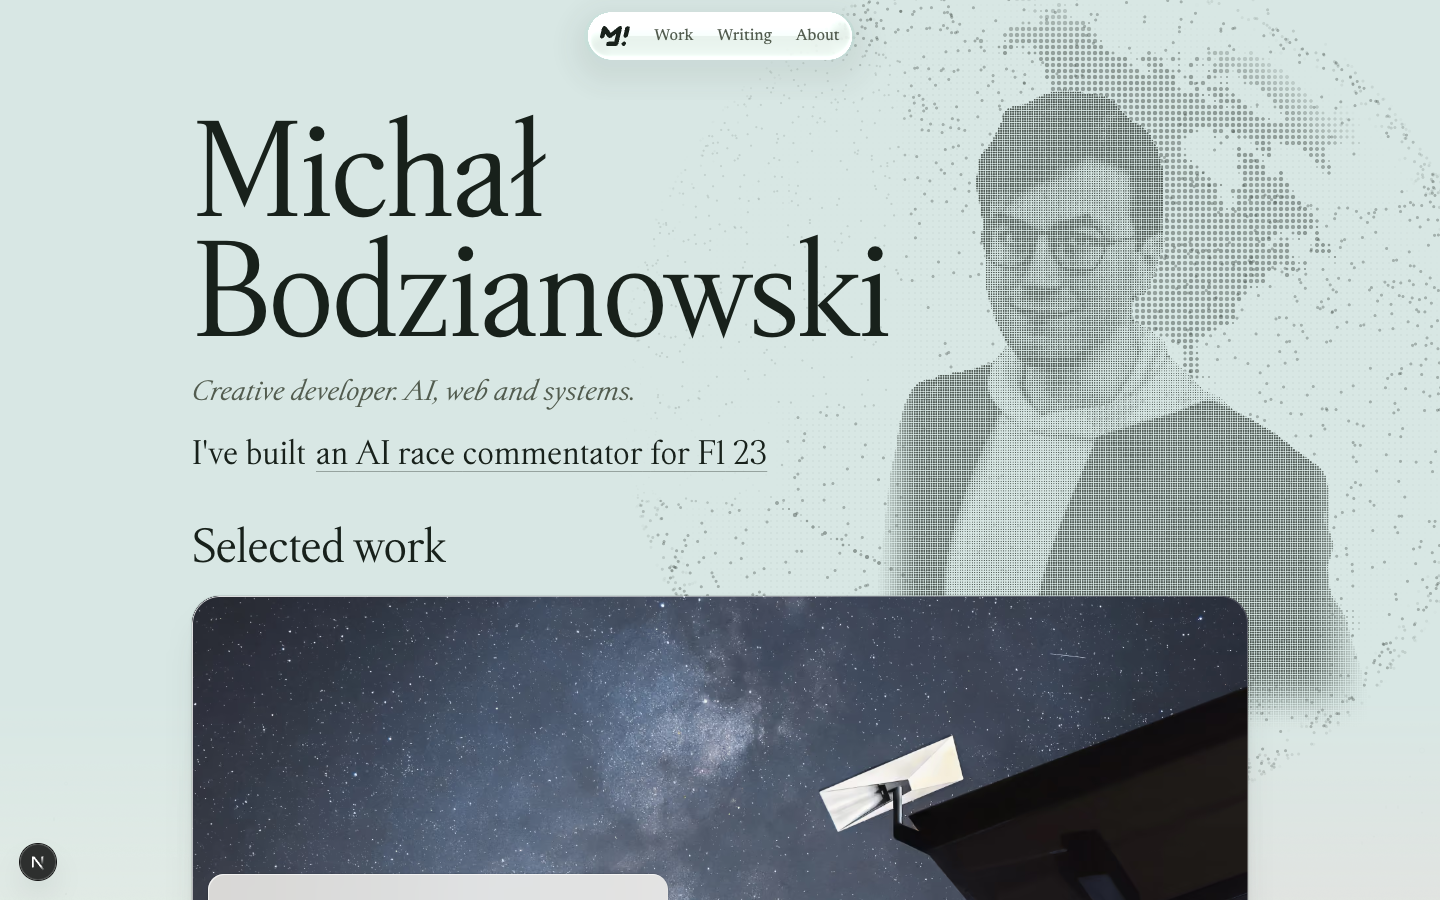
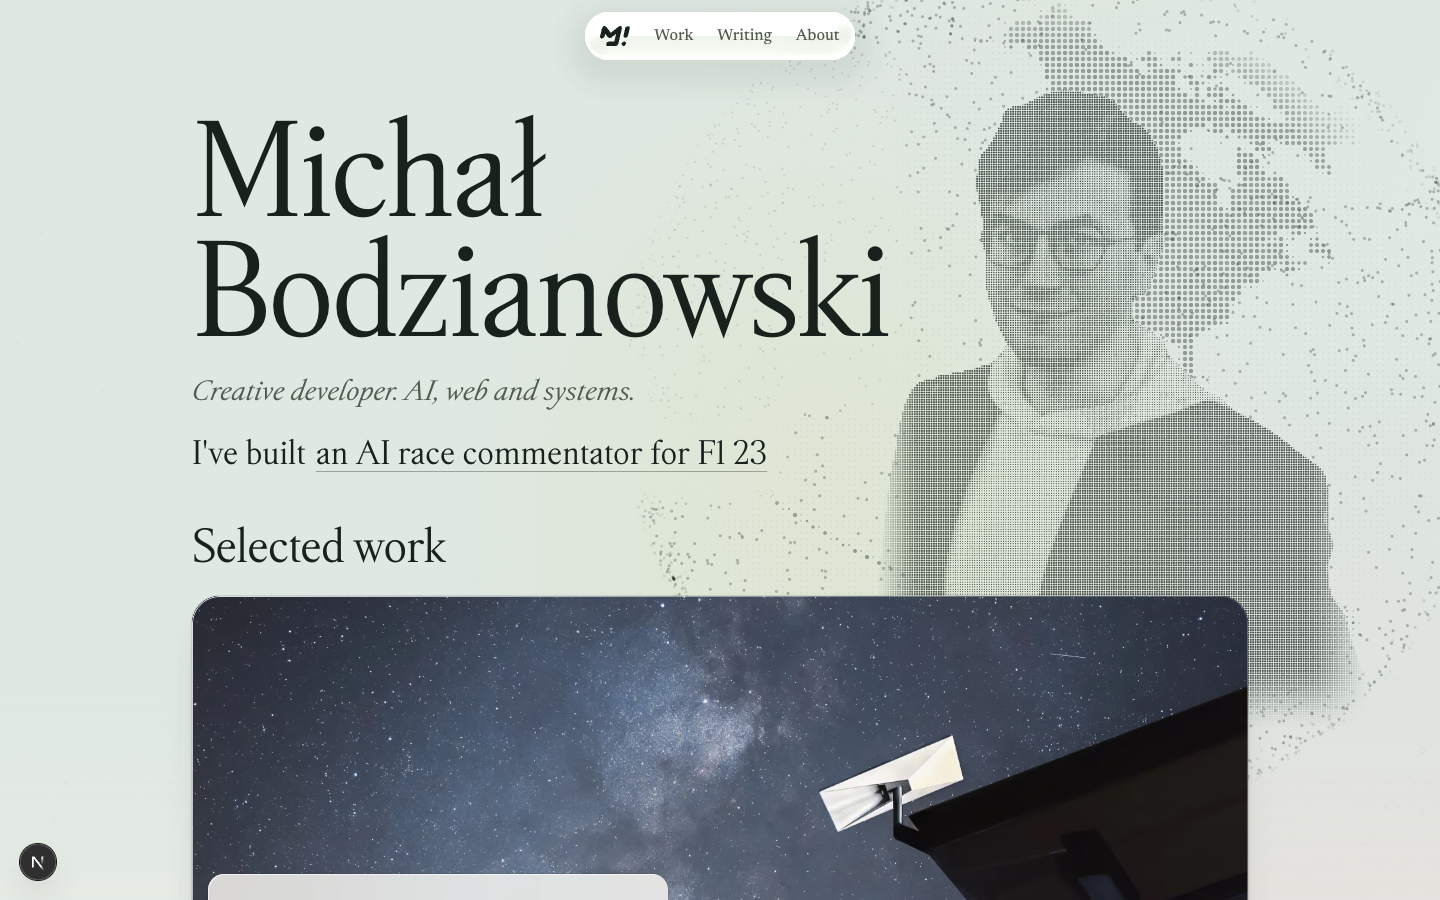
Portrait: halftone dots at every DPR (glyphs opt-in); glyph ramp with dither kept behind ?portrait=glyphs

diff --git a/apps/michal-ai/components/presence/HeroGlobe.tsx b/apps/michal-ai/components/presence/HeroGlobe.tsx
@@ -186,7 +186,7 @@ export function HeroGlobe({ pins = PRESENCE_PINS, mock = false, variant = 'slot'
       height = Math.max(300, Math.min(760, bottom - 64))
       width = height * 0.75
       left = w.left + w.width * 0.54 - 0.44 * width
-      cellW = 3.2
+      cellW = 2.6
       edge = 70 * sc // the part below the card's right edge fades out in dots
     } else {
       const box = document.querySelector<HTMLElement>('h1[data-hero-text]')?.parentElement?.getBoundingClientRect()
@@ -203,13 +203,17 @@ export function HeroGlobe({ pins = PRESENCE_PINS, mock = false, variant = 'slot'
     }
     // Glyphs where they resolve (desktop); density dots on a square grid in the small circle, where a glyph would be a smudge.
     const cellH = cellW / s.portrait.aspect
-    // Measured: at 1x the glyphs (5-6 px tall) smear into a texture and the face is lost; halftone dots on a square 2.4 px grid hold the likeness.
-    // From 1.5x device pixels the glyphs resolve, so desktop gets real monospace glyphs there. `?portrait=dots|glyphs` forces one.
+    // Measured at 1x and 2x: halftone dots on a square grid hold the likeness (glasses, eyes, mouth); monospace glyphs, even with a full
+    // tonal ramp and dithering, read as texture and lose it. Likeness wins, so dots are the default at every DPR and glyphs are opt-in
+    // (`?portrait=glyphs`, atlas from ui-monospace).
     const force = new URLSearchParams(window.location.search).get('portrait')
-    const dots = circle || force === 'dots' || (force !== 'glyphs' && sc < 1.4)
-    const sq = circle ? cellW : Math.min(cellW, 2.4)
-    // Thin glyph strokes carry less ink than dots at the same strength.
-    if (!dots) strength = Math.min(1, strength * 1.35)
+    const dots = circle || force !== 'glyphs'
+    const sq = circle ? cellW : sc >= 1.4 ? 2 : 2.4
+    // Glyphs: full tonal ramp (no dot-style compression), local contrast on the face, a little more strength for thin strokes.
+    if (!dots) {
+      boost = 1.35
+      strength = 0.78
+    }
     s.pspec = {
       rect: [(left - w.left) * sc, px - (bottom - w.top) * sc, width * sc, height * sc],
       crop,

diff --git a/apps/michal-ai/components/presence/globe/renderer.ts b/apps/michal-ai/components/presence/globe/renderer.ts
@@ -219,13 +219,16 @@ void main(){
   float lum = s.r / max(s.a, .001);
   float d = clamp(pow(1. - clamp(lum, 0., 1.), .8) * 1.5 + .05, 0., 1.);
   d = clamp((d - .5) * uBoost + .5, 0., 1.);
-  d *= uCircle > .5 ? .85 : .6;                                   // darkest areas stay an open texture (coverage about 55-60%)
+  d *= uCircle > .5 ? .85 : (uDots > .5 ? .6 : .78);                                   // darkest areas stay an open texture (coverage about 55-60%)
   float cov;
   if (uDots > .5) {
     float r = min(uCell.x, uCell.y) * (.12 + .46 * d);
     cov = 1. - smoothstep(r - .5, r + .5, length(local - .5 * uCell));
   } else {
-    float gi = floor(d * (uGlyphs - 1.) + .5);
+    // ordered (4x4 Bayer) dither between adjacent ramp steps, so flat areas do not repeat a single character
+    ivec2 q = ivec2(mod(cell, 4.));
+    float th = (float((((q.x ^ q.y) & 1) << 3) | ((q.y & 1) << 2) | ((((q.x ^ q.y) >> 1) & 1) << 1) | ((q.y >> 1) & 1)) + .5) / 16.;
+    float gi = min(floor(d * (uGlyphs - 1.) + th), uGlyphs - 1.);
     cov = texture(uAtlas, vec2((gi + local.x / uCell.x) / uGlyphs, 1. - local.y / uCell.y)).a;
   }
   float dm = uCircle > .5 ? mix(1., dimAt(centre), .35) : dimAt(centre);

diff --git a/apps/michal-ai/docs/presence.md b/apps/michal-ai/docs/presence.md
@@ -136,7 +136,7 @@ A figure of the owner in the same canvas, rendered as monospace glyphs (desktop)
 - Shader: a second program in the same canvas, scissored to the figure's rectangle. Draw 1 is a knockout (`dst *= 1 - matte`), so the globe and satellites give way behind him; draw 2 picks a glyph per cell from a 5-tap luminance average. Cells need not align with the globe's grid (3.2 x 5.7 CSS px on desktop). Pointer push: radius 90 px, maximum 5 px (the globe's is 100 and 12). Text-aware dimming applies to the portrait too, so it never fights the hero text.
 - Opacity: the canvas now draws at full opacity and the shader multiplies the globe by the old CSS opacity (`--hero-globe-opacity`, read at resize), so the portrait can be stronger than the globe. `.hero-globe[data-mode='gl']` sets the wrapper to opacity 1; the still PNG keeps the old behaviour.
 - Placement: from 768 px wide the figure is bottom-anchored just above the first card row (`#work-h` bottom + 10 px; the bottom edge dots fade over 20 px), about 520 px tall at 1440x900, centred on the globe's disc. Below 768 px a circle (about 22% of the viewport width, 64 to 100 px) sits to the right of the name, right edge on the header's right edge, drawn as density dots on a square 1.7 px grid with a soft dot-fade edge; the globe's dots give way inside it. No portrait without WebGL (the fallback PNG is unchanged); under reduced motion it is drawn once.
-- Known limits: at 3.2 px cells there are about 50 cells across the face on desktop, not 70 to 90: real glyph shapes do not resolve below about 5 px tall, so a finer grid would have to be dots. `?portrait=dots` (any build) switches desktop to dots to compare.
+- Shipped style: halftone dots on a square grid (2.4 CSS px at 1x, 2 px from 1.5x device pixels; about 75 cells across the face), at every DPR. Monospace glyphs (atlas above, full tonal ramp, 4x4 ordered dither, 12 glyphs by measured coverage) were built and compared at 2x and lose the likeness (eyes, glasses and mouth turn into texture), so they are opt-in: `?portrait=glyphs`. Shots: `1440-dpr2.png` (dots) against `1440-dpr2-glyphs-variant.png`.
 
 ## My view of the globe
 
